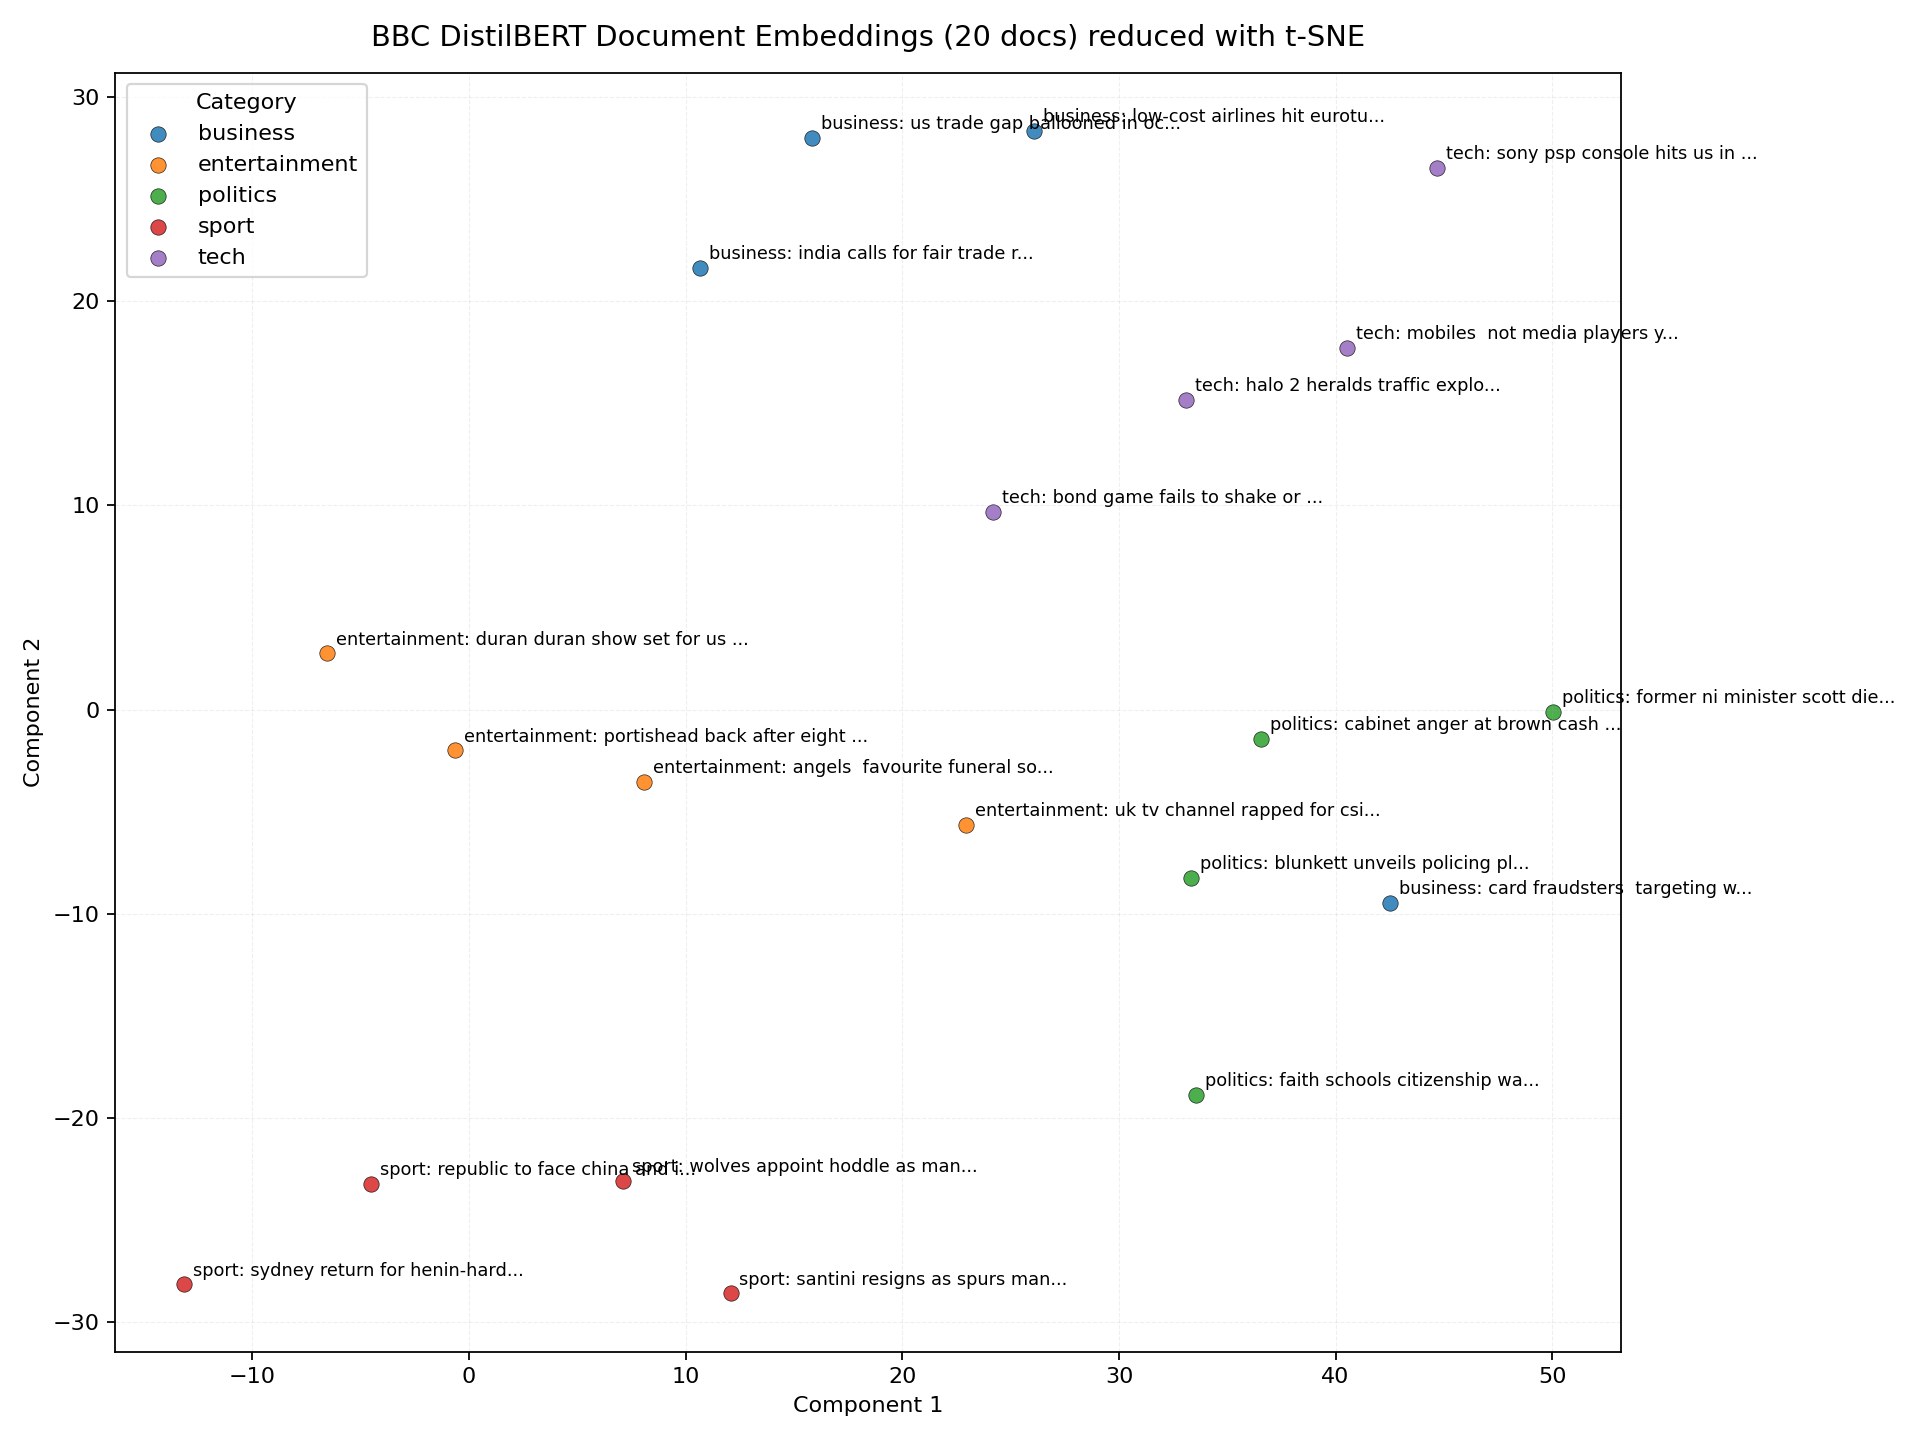
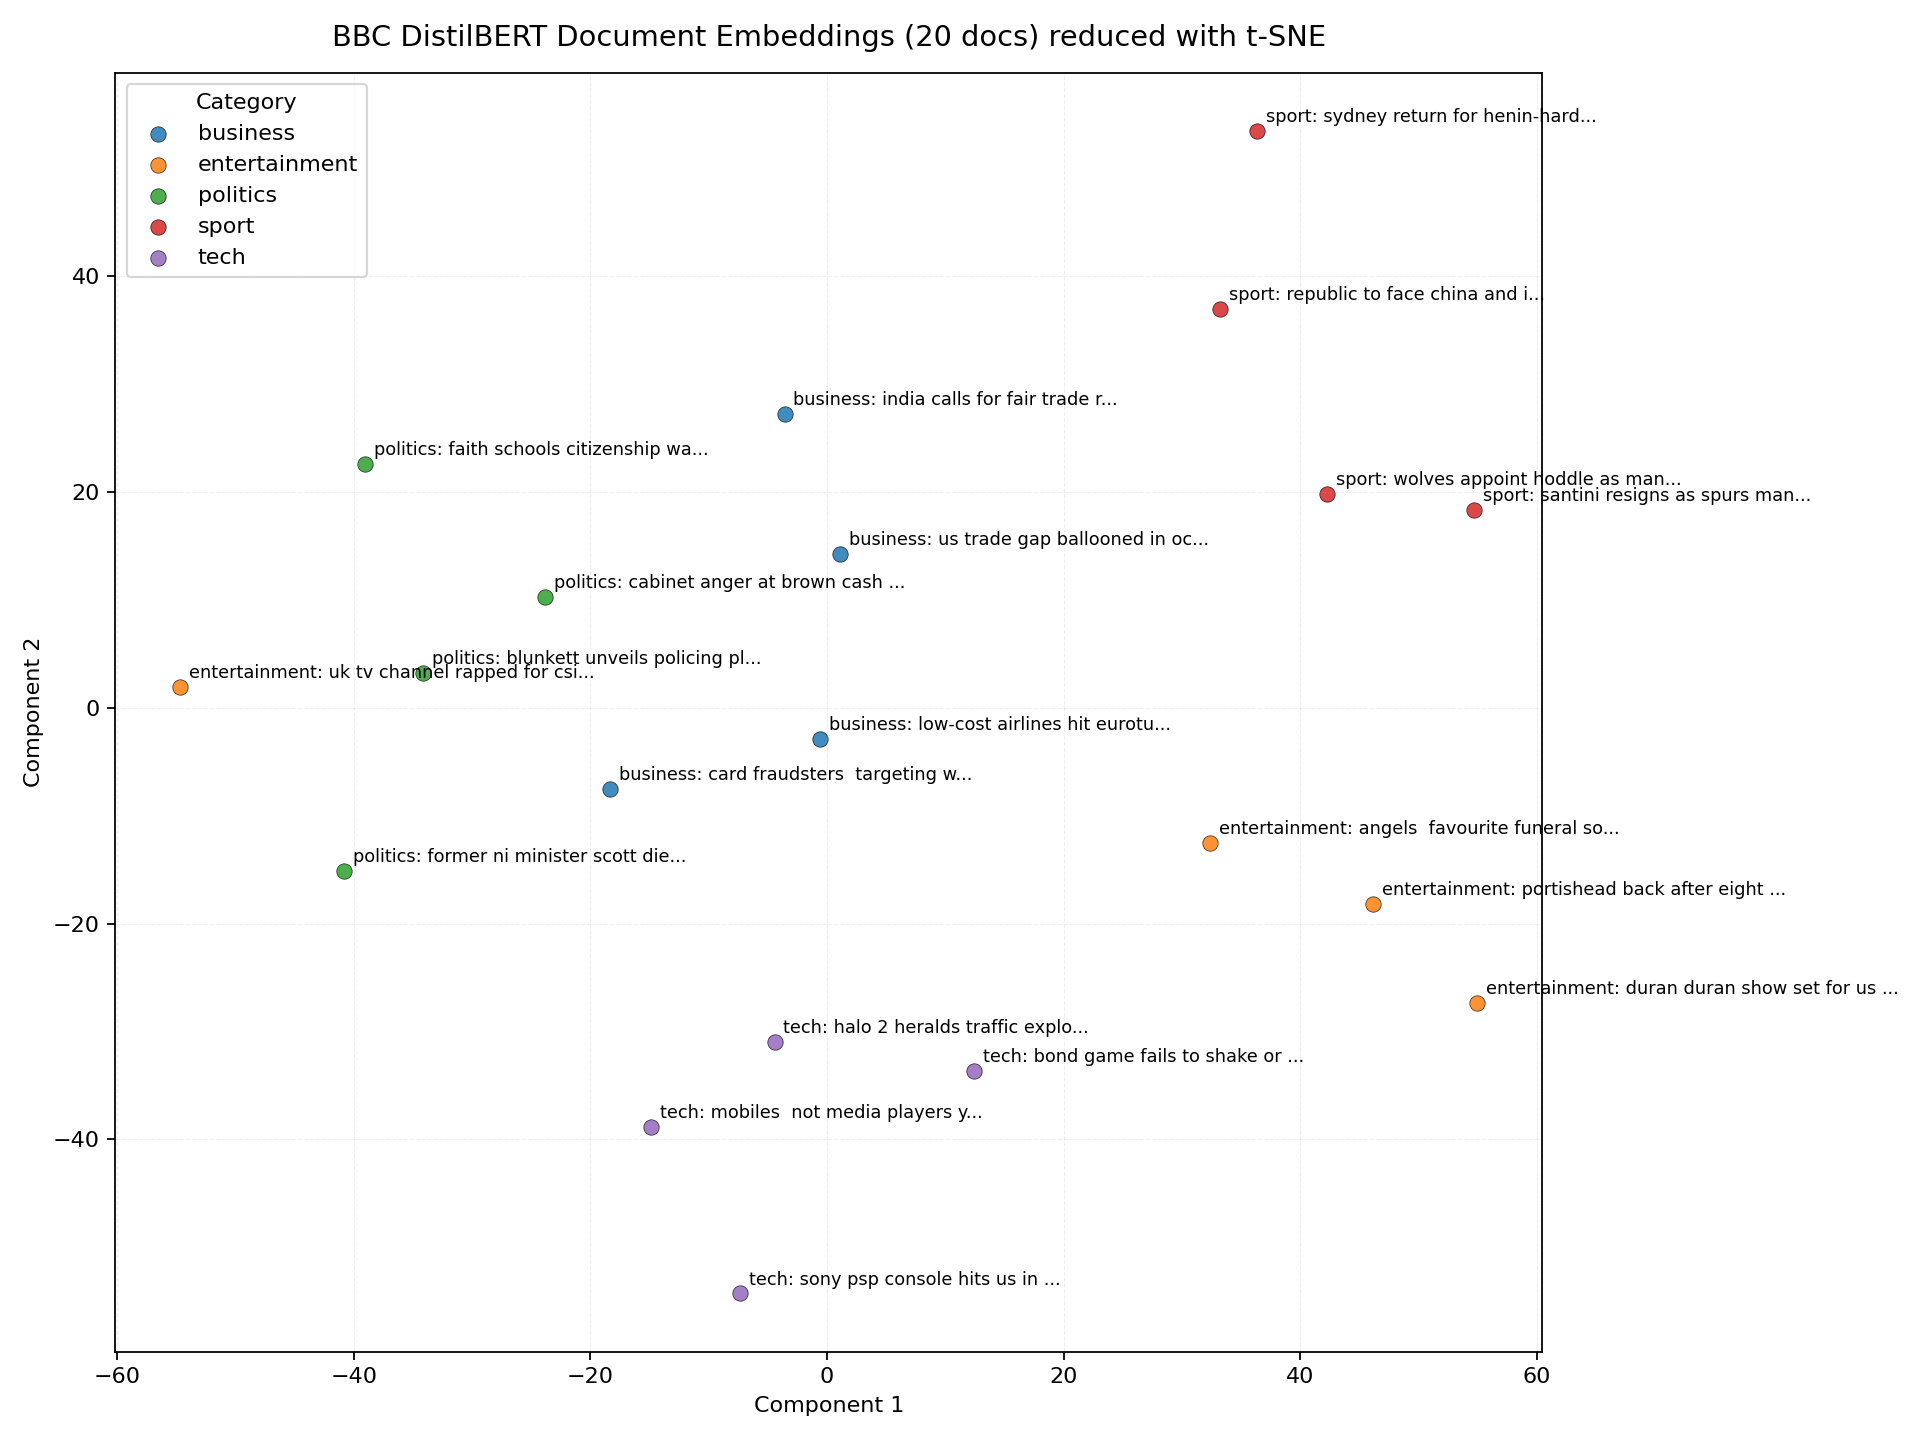
Implement all embeddings_lab functions and update plots

diff --git a/embeddings_lab.py b/embeddings_lab.py
@@ -16,7 +16,10 @@ def build_tfidf(texts):
 
     Returns (tfidf_matrix, vectorizer).
     """
-    pass
+    vectorizer = TfidfVectorizer()
+    tfidf_matrix = vectorizer.fit_transform(texts)
+    return tfidf_matrix, vectorizer
+
 
 
 def compute_tfidf_similarity(tfidf_matrix):
@@ -24,7 +27,7 @@ def compute_tfidf_similarity(tfidf_matrix):
 
     Returns a numpy array of shape (n, n).
     """
-    pass
+    return sklearn_cosine(tfidf_matrix)
 
 
 def load_glove(filepath):
@@ -32,7 +35,14 @@ def load_glove(filepath):
 
     Returns a dict mapping each word to a numpy array.
     """
-    pass
+    embeddings = {}
+    with open(filepath, "r", encoding="utf-8") as f:
+        for line in f:
+            parts = line.rstrip().split(" ")
+            word = parts[0]
+            vector = np.array(parts[1:], dtype=np.float32)
+            embeddings[word] = vector
+    return embeddings
 
 
 def text_to_glove(text, embeddings):
@@ -41,7 +51,11 @@ def text_to_glove(text, embeddings):
     Skip out-of-vocabulary words. If every word is OOV, return a zero
     vector of shape (50,).
     """
-    pass
+    words = text.lower().split()
+    vectors = [embeddings[w] for w in words if w in embeddings]
+    if not vectors:
+        return np.zeros(50, dtype=np.float32)
+    return np.mean(vectors, axis=0)
 
 
 def extract_bert_embedding(text, tokenizer, model):
@@ -49,7 +63,22 @@ def extract_bert_embedding(text, tokenizer, model):
 
     Returns a numpy array of shape (768,).
     """
-    pass
+    import torch
+    inputs = tokenizer(
+        text,
+        return_tensors="pt",
+        truncation=True,
+        max_length=512,
+        padding=True,
+    )
+    with torch.no_grad():
+        outputs = model(**inputs)
+    last_hidden = outputs.last_hidden_state          # (1, seq_len, 768)
+    mask = inputs["attention_mask"].unsqueeze(-1).float()
+    summed = (last_hidden * mask).sum(dim=1)
+    count = mask.sum(dim=1).clamp(min=1e-9)
+    embedding = (summed / count).squeeze(0).numpy()
+    return embedding
 
 
 def compare_similarities(texts, queries, tfidf_sim, glove_embeddings,
@@ -63,7 +92,57 @@ def compare_similarities(texts, queries, tfidf_sim, glove_embeddings,
                       "glove": [(text, score), ...],
                       "bert":  [(text, score), ...]}}
     """
-    pass
+    import torch
+
+    text_index = {t: i for i, t in enumerate(texts)}
+
+    # Pre-compute GloVe and BERT vectors for all texts
+    glove_vectors = np.vstack([text_to_glove(t, glove_embeddings) for t in texts])
+    bert_vectors = np.vstack(
+        [extract_bert_embedding(t, bert_tokenizer, bert_model) for t in texts]
+    )
+
+    result = {}
+    for query in queries:
+        query_idx = text_index.get(query)
+        if query_idx is None:
+            continue
+
+        others = [i for i in range(len(texts)) if i != query_idx]
+
+        # TF-IDF
+        tfidf_scores = tfidf_sim[query_idx]
+        tfidf_ranked = sorted(
+            [(texts[i], float(tfidf_scores[i])) for i in others],
+            key=lambda x: x[1],
+            reverse=True,
+        )
+
+        # GloVe
+        q_glove = glove_vectors[query_idx].reshape(1, -1)
+        glove_scores = sklearn_cosine(q_glove, glove_vectors)[0]
+        glove_ranked = sorted(
+            [(texts[i], float(glove_scores[i])) for i in others],
+            key=lambda x: x[1],
+            reverse=True,
+        )
+
+        # BERT
+        q_bert = bert_vectors[query_idx].reshape(1, -1)
+        bert_scores = sklearn_cosine(q_bert, bert_vectors)[0]
+        bert_ranked = sorted(
+            [(texts[i], float(bert_scores[i])) for i in others],
+            key=lambda x: x[1],
+            reverse=True,
+        )
+
+        result[query] = {
+            "tfidf": tfidf_ranked[:3],
+            "glove": glove_ranked[:3],
+            "bert": bert_ranked[:3],
+        }
+
+    return result
 
 
 if __name__ == "__main__":
